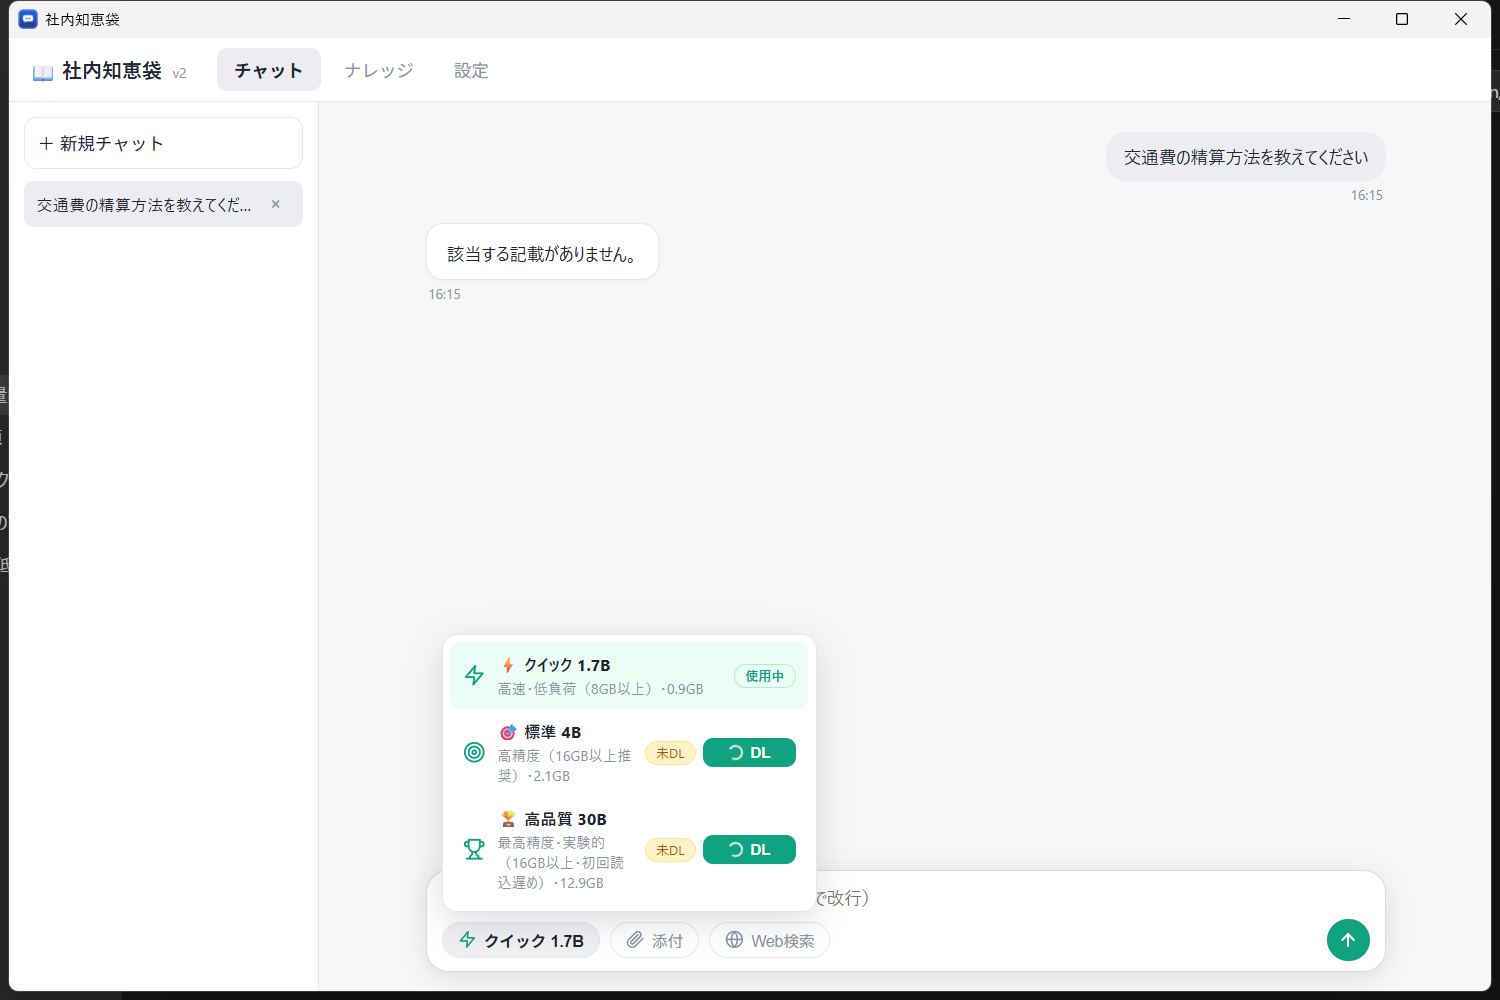
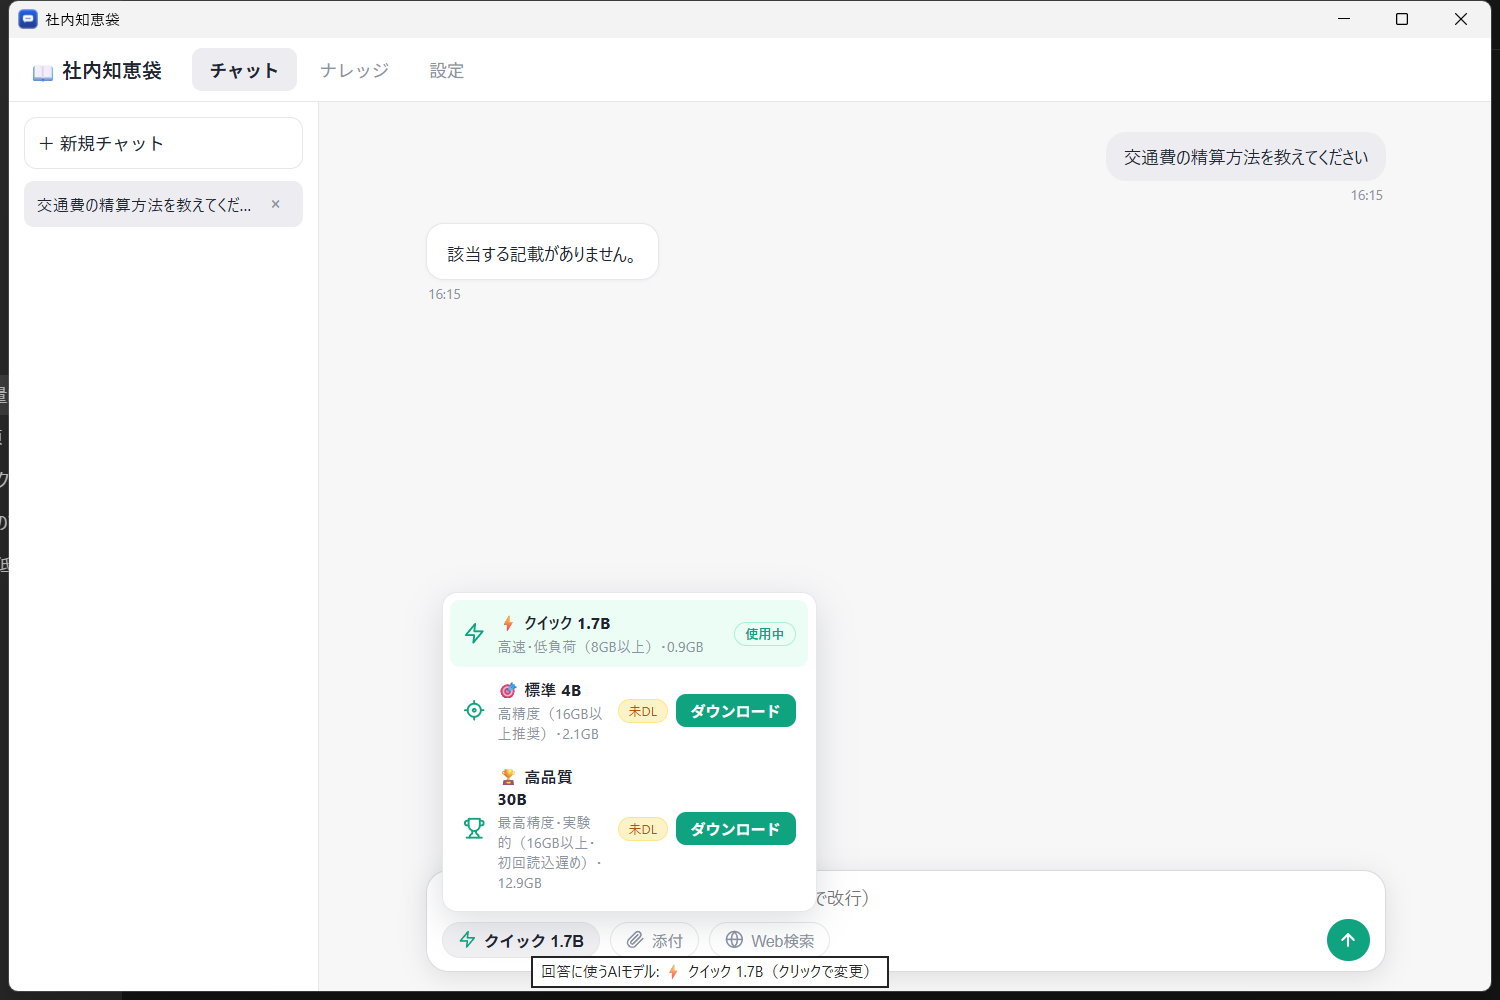
v2: drop the v2 badge from the product UI
- header brand now shows only the product name (users do not care about internal version labels); unused .ver CSS rule removed

- all four README screenshots retaken from the updated app

- installer rebuilt and redeployed on the test machine (uninstall=0, install=0, header verified without badge)

Changed region(s): [[0.3067, 0.62, 0.552, 0.899], [0.3373, 0.961, 0.5827, 0.992], [0.1533, 0.062, 0.3373, 0.093]]

diff --git a/app/ShineosQA.Web/src/styles.css b/app/ShineosQA.Web/src/styles.css
@@ -17,7 +17,6 @@ body { font-family: "Segoe UI", "Hiragino Sans", "Yu Gothic UI", Meiryo, sans-se
 /* ── ヘッダー ───────────────────────── */
 .topbar { display: flex; align-items: center; gap: 24px; padding: 8px 16px; background: var(--panel); border-bottom: 1px solid var(--border); }
 .brand { font-weight: 700; font-size: 16px; }
-.ver { font-size: 11px; color: var(--muted); font-weight: 400; margin-left: 4px; }
 .tabs { display: flex; gap: 4px; }
 .tab { border: none; background: transparent; padding: 7px 14px; border-radius: 8px; cursor: pointer; font-size: 14px; color: var(--muted); }
 .tab:hover { background: var(--hover); }

diff --git a/app/ShineosQA.Web/index.html b/app/ShineosQA.Web/index.html
@@ -9,7 +9,7 @@
 <body>
   <div id="app">
     <header class="topbar">
-      <div class="brand">📖 社内知恵袋 <span class="ver">v2</span></div>
+      <div class="brand">📖 社内知恵袋</div>
       <nav class="tabs">
         <button data-tab="chat" class="tab active">チャット</button>
         <button data-tab="knowledge" class="tab">ナレッジ</button>

diff --git a/CHANGELOG.md b/CHANGELOG.md
@@ -21,6 +21,7 @@ v1（Ollama + Open WebUI）を廃止し、**llama.cpp（llama-server）を直接
 - **終了コードの一意化（Store申請対応）**: インストーラに独自終了コード機構を追加 — 同一バージョン完了済みサイレント再実行=**11**、ディスク空き容量不足=**12**（v1.0.76と同じ意味を維持。実機検証: 0/11）。バックエンドに終了コードを実装 — config.json破損=**20**、ポートバインド失敗=**21**、knowledge.db破損=**22**、想定外例外=**30**（実機検証: 20/21）。全終了コードが単一名前空間で重複しないよう番号帯を分離し [error-codes-v2.md](docs/error-codes-v2.md) を実装実態に全面改訂
 - **アンインストール時のデータ取り扱い**: 対話時はナレッジ・チャット履歴（`data`）の削除確認を表示。サイレント時はデータを残す（本体は完全削除）
 - **モデルメニューのアイコン修正**: 標準モデルの行アイコンが同心円（読み込み中スピナーと紛らわしい）だったのを十字線付き照準型に変更。送信フォームのモデルボタン内アイコンも選択階級（⚡/🎯/🏆）に連動して切り替わるように
+- **UIからバージョン表記（v2）を削除**: ヘッダーのブランド名は「📖 社内知恵袋」のみに（ユーザーには無関係な情報のため。READMEのスクリーンショット4枚も新しい画面で撮り直し）
 
 ### v1.0.78 — ナレッジ即時反映・障害調査性向上・XXE防御の強化（v1系最終版）
 
